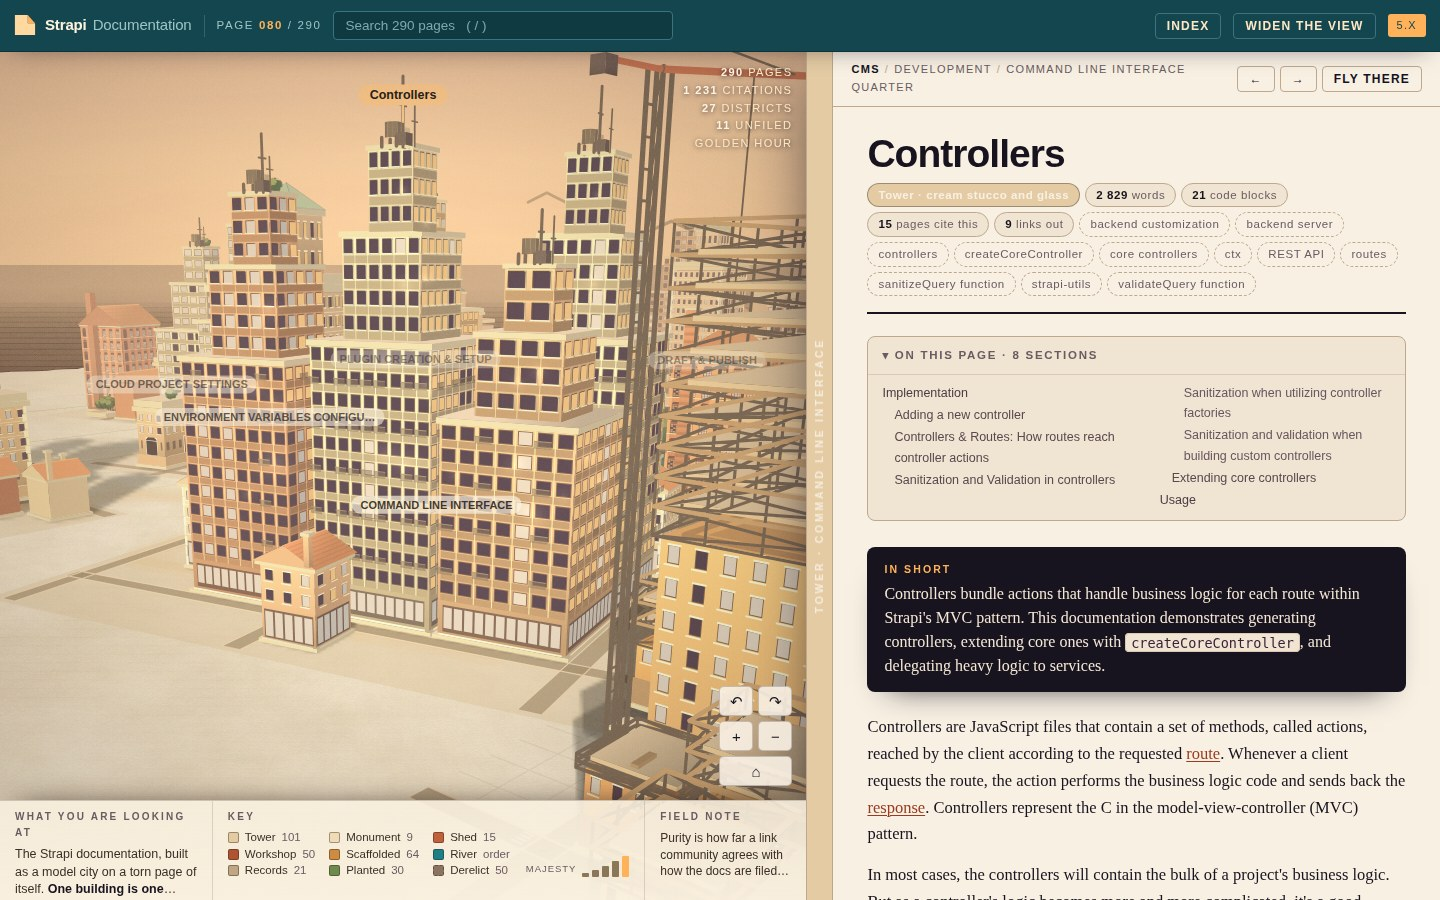
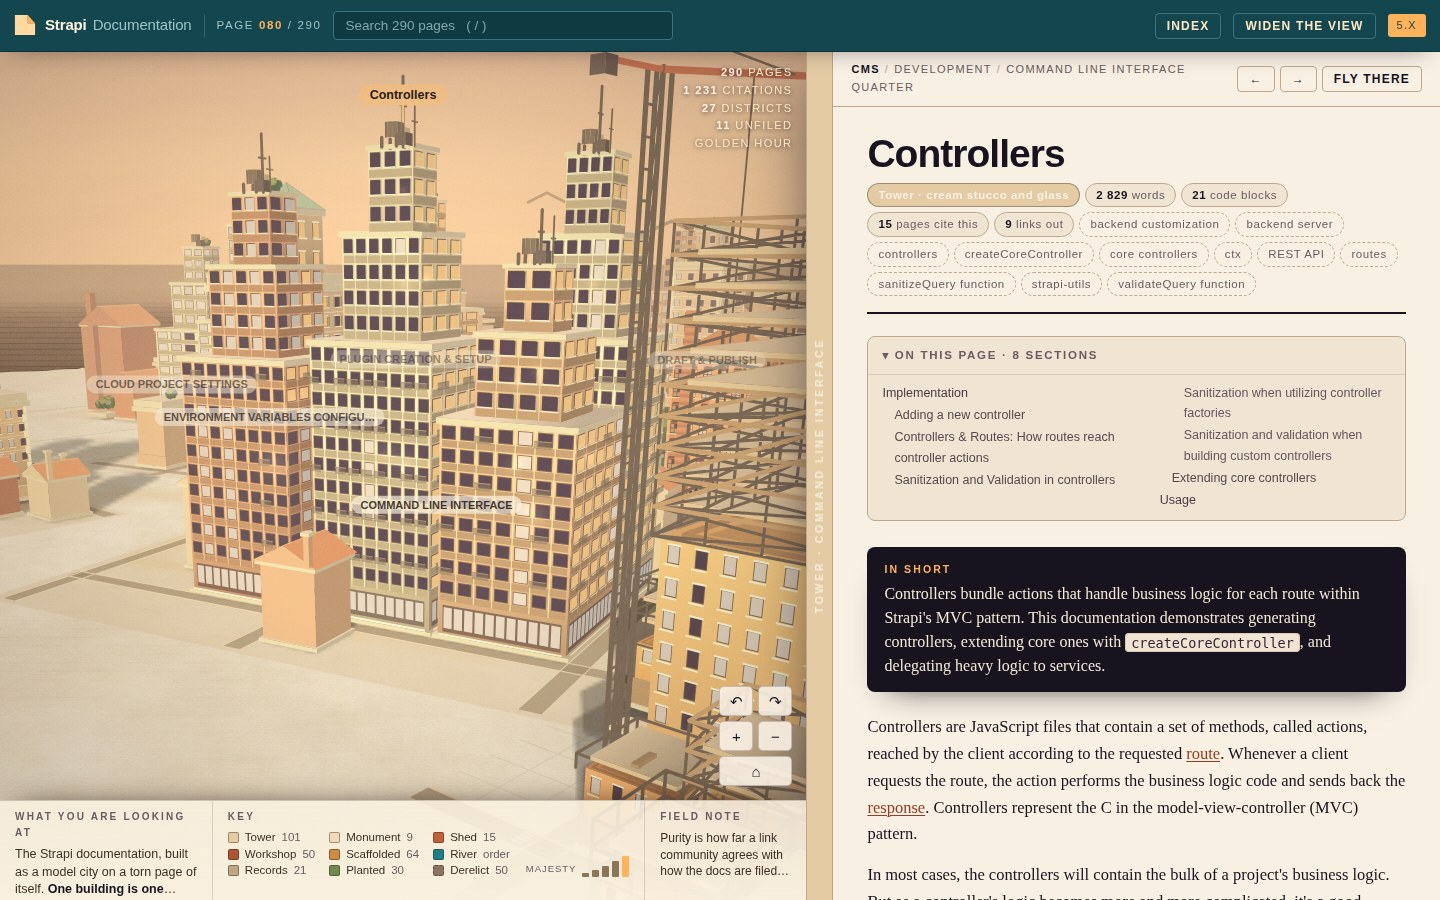
Mip the diorama facades by pixel size, every camera inside budget
Claude-Session: https://claude.ai/code/session_01KnUTEBwQTE7PzBUoAXR7rY

diff --git a/workbench/builds/diorama/city.js b/workbench/builds/diorama/city.js
@@ -2600,7 +2600,7 @@
     var hB = Math.round(hz / HZ_MAX * 18); if (hB > 18) hB = 18; if (hB < 0) hB = 0;
     var foot = Math.max(r.hw, r.hd);
     var scr = r.topz * (FOC / r._d);
-    var maxLvl = scr > 210 ? 2 : scr > 74 ? 1 : 0;
+    var maxLvl = scr > 280 ? 2 : scr > 74 ? 1 : 0;
     if (!quality && maxLvl > 1) maxLvl = 1;
 
     /* the ground takes the building. A big soft blit is expensive, so it is
@@ -2762,7 +2762,7 @@
     var topMy = (cy2 + dy2) / 2, botMy = (ay + by) / 2;
     var topMx = (cx2 + dx2) / 2, botMx = (ax + bx) / 2;
     var hpx = abs(botMy - topMy), wpx = Math.hypot(bx - ax, by - ay);
-    if (lod && hpx > 16) {
+    if (lod && hpx > 30 && wpx > 12) {
       var g = ctx.createLinearGradient(topMx, topMy, botMx, botMy);
       g.addColorStop(0, faceCol(m, v, tB, hB, 0));
       g.addColorStop(0.62, faceCol(m, v, tB, hB, 2));
@@ -2987,6 +2987,12 @@
     var nf = Math.max(1, Math.round((fh - g1 * fh) / STOREY));
     if (nf > 40) nf = 40;
     var bays = bayJit(r, fw), i, k;
+    /* windows are drawn at the size of the pixels, not of the world: past
+       the range where a storey is 14px the floors merge two into one, the
+       way a photograph of a model would resolve them. Cuts a giant tower's
+       face from ~500 rects to ~150 with no change the eye can catch. */
+    nf = Math.min(nf, Math.max(3, Math.round(hpx / 14)));
+    bays = Math.min(bays, Math.max(2, Math.round(wpx / 13)));
     var fs = (1 - g1) / nf, flr = fs * hpx;
     if (flr < 5) return;
 
@@ -3078,6 +3084,9 @@
     var nf = Math.max(1, b.floors || Math.round((fh - g1 * fh) / STOREY));
     if (nf > 30) nf = 30;
     var bays = bayJit(r, fw), i, k;
+    /* same pixel-sized merge as the curtain walls */
+    nf = Math.min(nf, Math.max(2, Math.round(hpx / 14)));
+    bays = Math.min(bays, Math.max(2, Math.round(wpx / 13)));
     var fs = (1 - g1) / nf, flr = fs * hpx;
     if (flr < 5) return;
     var wq = Math.min(0.40 / bays, 0.06);
@@ -3239,10 +3248,16 @@
     if (flr < 6) return;
     var bays = clamp(Math.round(fw / 9.5), 1, 10);
 
-    /* the openings */
+    /* Resolution follows the pixels, not the plan: a pane that would paint
+       under 4px collapses into its neighbours, and the arched heads are
+       drawn only where an arch could be seen. Sixty-four factory fronts of
+       blind 1px panes were the single largest cost of a wide street view. */
+    var bayWpx = wpx * 0.54 / bays, bayHpx = flr * 0.51;
+    var arches = flr >= 14;
     ctx.beginPath();
     for (k = 0; k < nf; k++) for (i = 0; i < bays; i++) {
       fq((i + 0.20) / bays, g1 + k * fs + fs * 0.14, (i + 0.80) / bays, g1 + (k + 1) * fs - fs * 0.30);
+      if (!arches) continue;
       var t2, u0 = (i + 0.20) / bays, u1 = (i + 0.80) / bays, uc = (u0 + u1) / 2, hwd = (u1 - u0) / 2;
       for (t2 = 0; t2 < 4; t2++) {
         var tt = (t2 + 1) / 5, sh = hwd * sqrt(1 - tt * tt * 0.9);
@@ -3254,7 +3269,8 @@
 
     /* the glazing, in small panes; a few whole bays stand dark, and the
        sun-facing ones flash back at this hour */
-    var pr = 5, pc = 3, skyG = [], drkG = [];
+    var pr = clamp(Math.round(bayHpx / 4.5), 1, 5), pc = clamp(Math.round(bayWpx / 5), 1, 3);
+    var skyG = [], drkG = [];
     for (k = 0; k < nf; k++) for (i = 0; i < bays; i++) {
       var a0 = (i + 0.23) / bays, a1 = (i + 0.77) / bays;
       var b0 = g1 + k * fs + fs * 0.17, b1 = g1 + (k + 1) * fs - fs * 0.32;
@@ -3674,7 +3690,29 @@
     var d = depthOf(f.cx, f.cy, f.zc);
     var scr = (f.z1 - f.z0) * (FOC / d);
     if (scr < 6) return;
+    /* a cage two streets away is a hint, not a drawing: sixty-four of them
+       at full stroke was most of a blown frame budget on wide street views */
+    if (scr < 30) {
+      ctx.strokeStyle = faceCol(M_STEEL, 1, 5, hB, 2);
+      ctx.lineWidth = Math.max(0.5, 1.1 * (FOC / d) * 0.7);
+      ctx.beginPath();
+      for (i = 0; i < 4; i++) {
+        var cxl = CXS[i] * f.hw, cyl = CYS[i] * f.hd;
+        var cwx = f.cx + cxl * ca - cyl * sa, cwy = f.cy + cxl * sa + cyl * ca;
+        if (!proj(cwx, cwy, f.z0)) continue; var cq = [px, py];
+        if (!proj(cwx, cwy, f.z1)) continue;
+        ctx.moveTo(cq[0], cq[1]); ctx.lineTo(px, py);
+        var ni = (i + 1) & 3;
+        var nwx = f.cx + CXS[ni] * f.hw * ca - CYS[ni] * f.hd * sa;
+        var nwy = f.cy + CXS[ni] * f.hw * sa + CYS[ni] * f.hd * ca;
+        ctx.moveTo(px, py);
+        if (proj(nwx, nwy, f.z1)) ctx.lineTo(px, py);
+      }
+      ctx.stroke();
+      return;
+    }
     var cols = clamp(Math.round(f.hw * 2 / 9), 2, 6);
+    if (scr < 80) { cols = Math.min(cols, 3); lifts = Math.min(lifts, 2); quality = false; }
     var col = faceCol(M_STEEL, 1, 5, hB, 2);
     ctx.strokeStyle = col;
     ctx.lineWidth = Math.max(0.5, 1.1 * (FOC / d) * 0.7);
@@ -4778,10 +4816,14 @@
     /* generous when the camera rests: the old 1.05 quota left the landmark
        tower of a mid-zoom shot as a blank slab while small near buildings
        spent the budget. Measured headroom allows it. */
-    var quota = W * H * (dragging ? 0.45 : 2.0), spent = 0, cnt = 0, capN = dragging ? 14 : 44;
+    var quota = W * H * (dragging ? 0.45 : 2.0), spent = 0, cnt = 0, capN = dragging ? 14 : 26;
     for (i = 0; i < ranked.length; i++) {
       var q = ranked[i];
-      q._q = (DBG === 2 ? false : (spent < quota && cnt < capN && q._scr > 16));
+      /* the scale floor: full dressing goes only to buildings big enough in
+         the frame for a window to read. On a wide street view forty mid-size
+         facades were eating the whole frame budget without adding a thing
+         the eye could see at that size. */
+      q._q = (DBG === 2 ? false : (spent < quota && cnt < capN && q._scr > 95));
       if (q._q) { spent += q._area; cnt++; }
     }
     /* buildings and props interleave by the near face of each building,

diff --git a/workbench/status/diorama.done.md b/workbench/status/diorama.done.md
@@ -4,6 +4,8 @@ Confirmed the salvaged visual-bug purge held (sweep 290/290 clean), then built t
 
 Ran the three critique rounds against the exhibition bar (log: builds/diorama/iterlog/CHANGELOG.md): round 1 fixed the detail budget that left landmark towers blank at mid-zoom, filled the establishing frame, keyed haze to camera elevation, dressed the maker's bench; round 2 toned the overexposed roofs, added parapet returns, plate joints, steadied the table strips; round 3 finished birds, well water, life cast-shadows, stall produce.
 
-Sweep: 290/290, zero errors, zero thin pages, zero overflow, zero content loss. Reduced motion holds a byte-identical posed tableau. Frame averages at 1440x900: establishing 18.5 ms (budget 30), street 14.2 ms (budget 40), facade close-up 32.9 ms. shot-world.jpg / shot-read.jpg committed beside the code.
+A wide street view over the scaffolded quarter, flagged by the parallel english-pass session at 47-57 ms, was root-caused (factory facades painted fixed 5x3 pane grids at sub-pixel size across 64 fronts) and fixed with pixel-resolution mip merging of panes, floors, bays, cages and gradients — every known camera now sits inside the budgets with the four fixed viewpoints visually unchanged.
 
-Honest caveats: walkers occasionally pass out of sight behind the buildings that line their lane (correct occlusion, but a still frame can catch a lane looking empty); the facade close-up runs ~33 ms, near the 40 ms bar, because extreme close-ups are fill-rate-bound; moths read at street zoom only (they are 4 px flecks by design); the brief said "15 night-edited pages" — provenance holds 12 night-edited pages carrying 15 night edits, so 15 moths across 12 lamps.
+Sweep: 290/290, zero errors, zero thin pages, zero overflow, zero content loss. Reduced motion holds a byte-identical posed tableau. Frame averages at 1440x900: establishing 20.7 ms (budget 30), street 10.1 ms and wide-street 34.5 ms (budget 40), mid-zoom 23.7 ms, facade close-up 23.5 ms. shot-world.jpg / shot-read.jpg committed beside the code.
+
+Honest caveats: walkers occasionally pass out of sight behind the buildings that line their lane (correct occlusion, but a still frame can catch a lane looking empty); moths read at street zoom only (they are 4 px flecks by design); the brief said "15 night-edited pages" — provenance holds 12 night-edited pages carrying 15 night edits, so 15 moths across 12 lamps.

diff --git a/workbench/builds/diorama/iterlog/CHANGELOG.md b/workbench/builds/diorama/iterlog/CHANGELOG.md
@@ -118,3 +118,21 @@ tableau byte-identical across repeated paints; living layer census stable at
 averages at 1440x900: establishing 18.5 ms (budget 30), street 14.2 ms
 (budget 40), mid-zoom 28.6 ms, facade close-up 32.9 ms. shot-world.jpg and
 shot-read.jpg committed beside the code.
+
+## Round 3 addendum — the wide street view (2026-09-03)
+The parallel english-pass session measured a camera these rounds had not
+framed: the whole scaffolded quarter from across the street (dist 430,
+el 0.30) — 47 ms before the round-1 budget raise, 57 ms after it. Profiling
+attributed the cost precisely: facadeFactory painted a fixed 5x3 pane grid
+per bay per floor, so sixty-four factory fronts projected tens of thousands
+of sub-pixel rects. Resolution now follows the pixels: panes under ~4 px
+collapse into their neighbours, arched window heads draw only when a storey
+is 14 px or more, curtain/stone floors and bays merge mip-style past the
+range where a storey is 14 px, distant scaffold cages drop to posts and rim,
+and gradients need a 30 px face. The scale floor for full dressing rose to a
+95 px screen radius, and the fine-trim level now starts at 280.
+
+After: wide street view 34.5 ms, establishing 20.7 ms, mid-zoom 23.7 ms,
+street 10.1 ms, facade close-up 23.5 ms — every known camera inside the
+budgets, and the four fixed viewpoints visually unchanged (compared
+side-by-side before/after the mip work). Sweep re-run: 290/290 clean.
